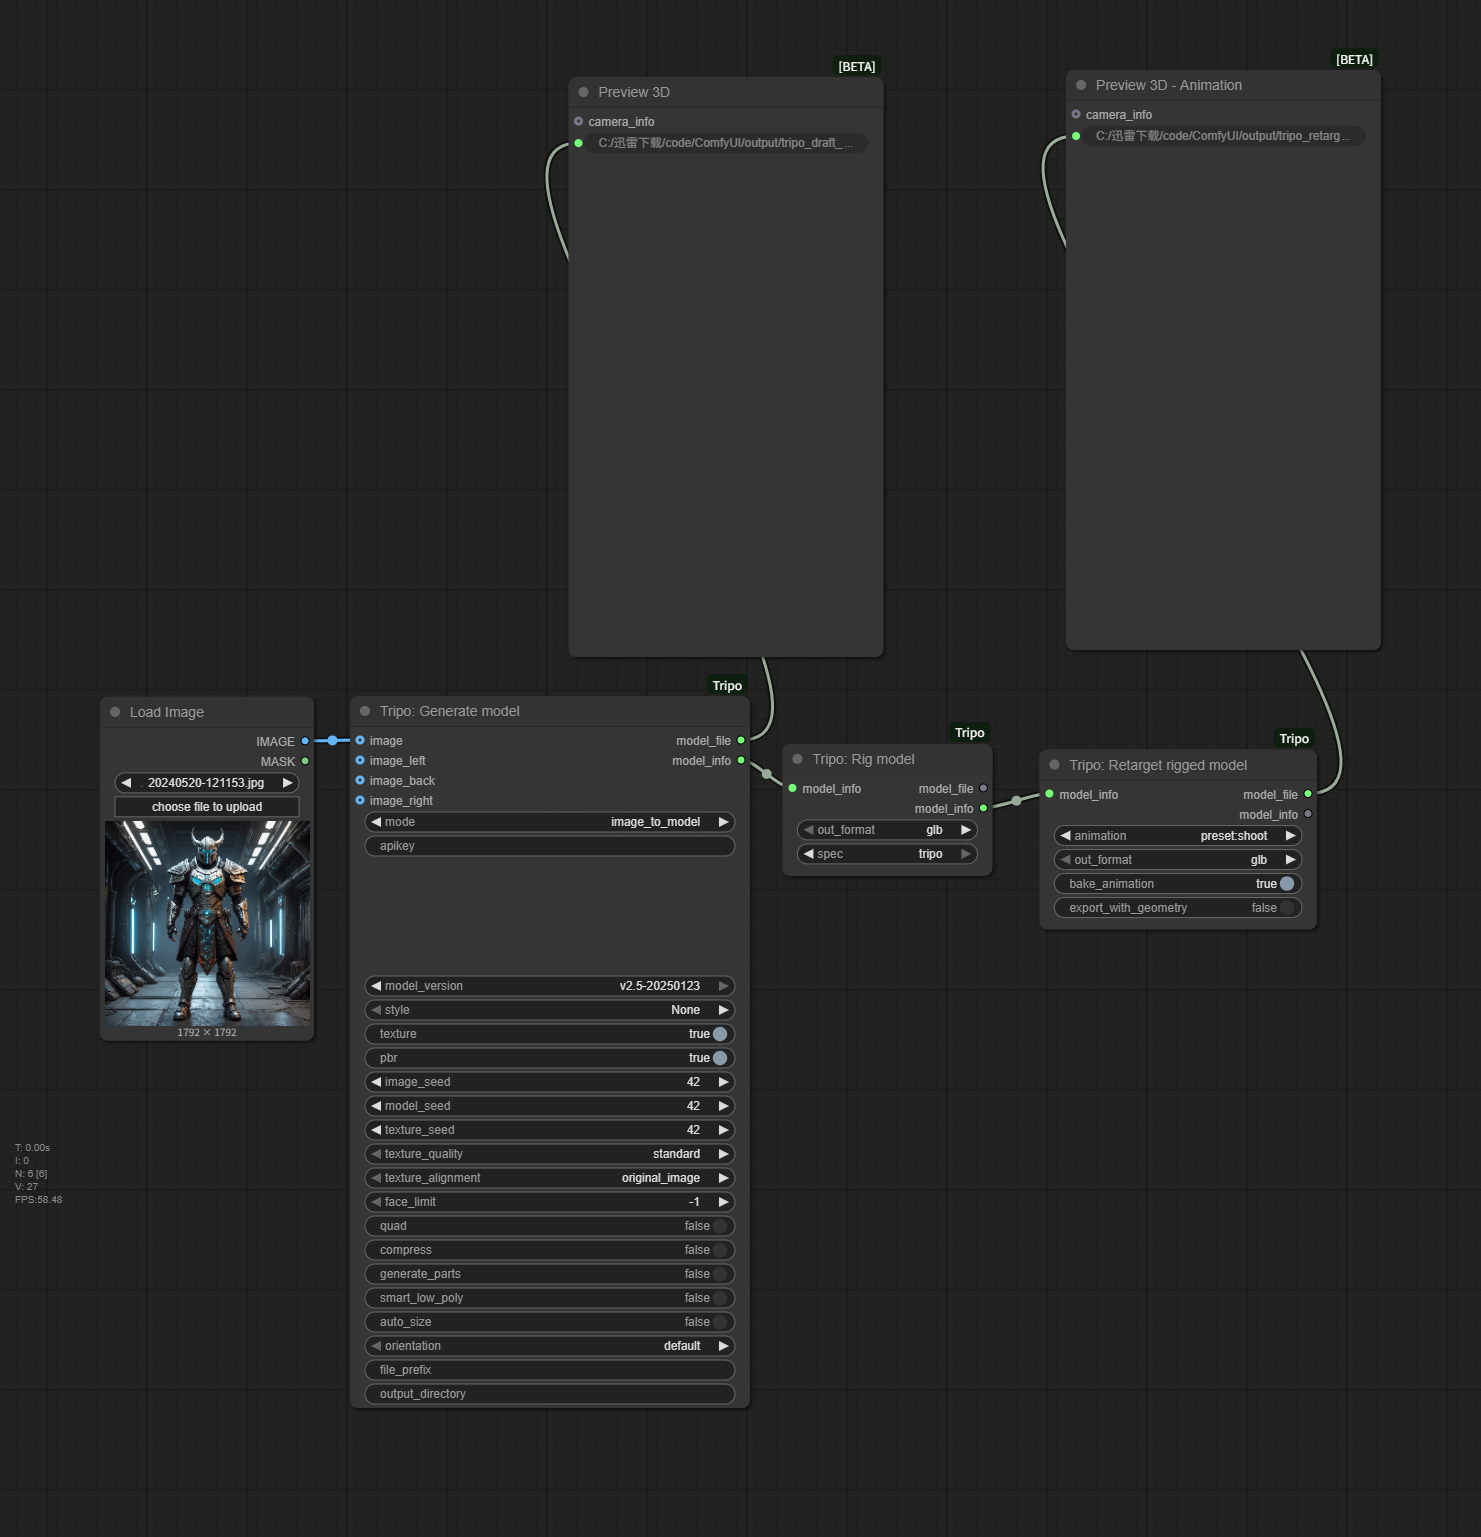
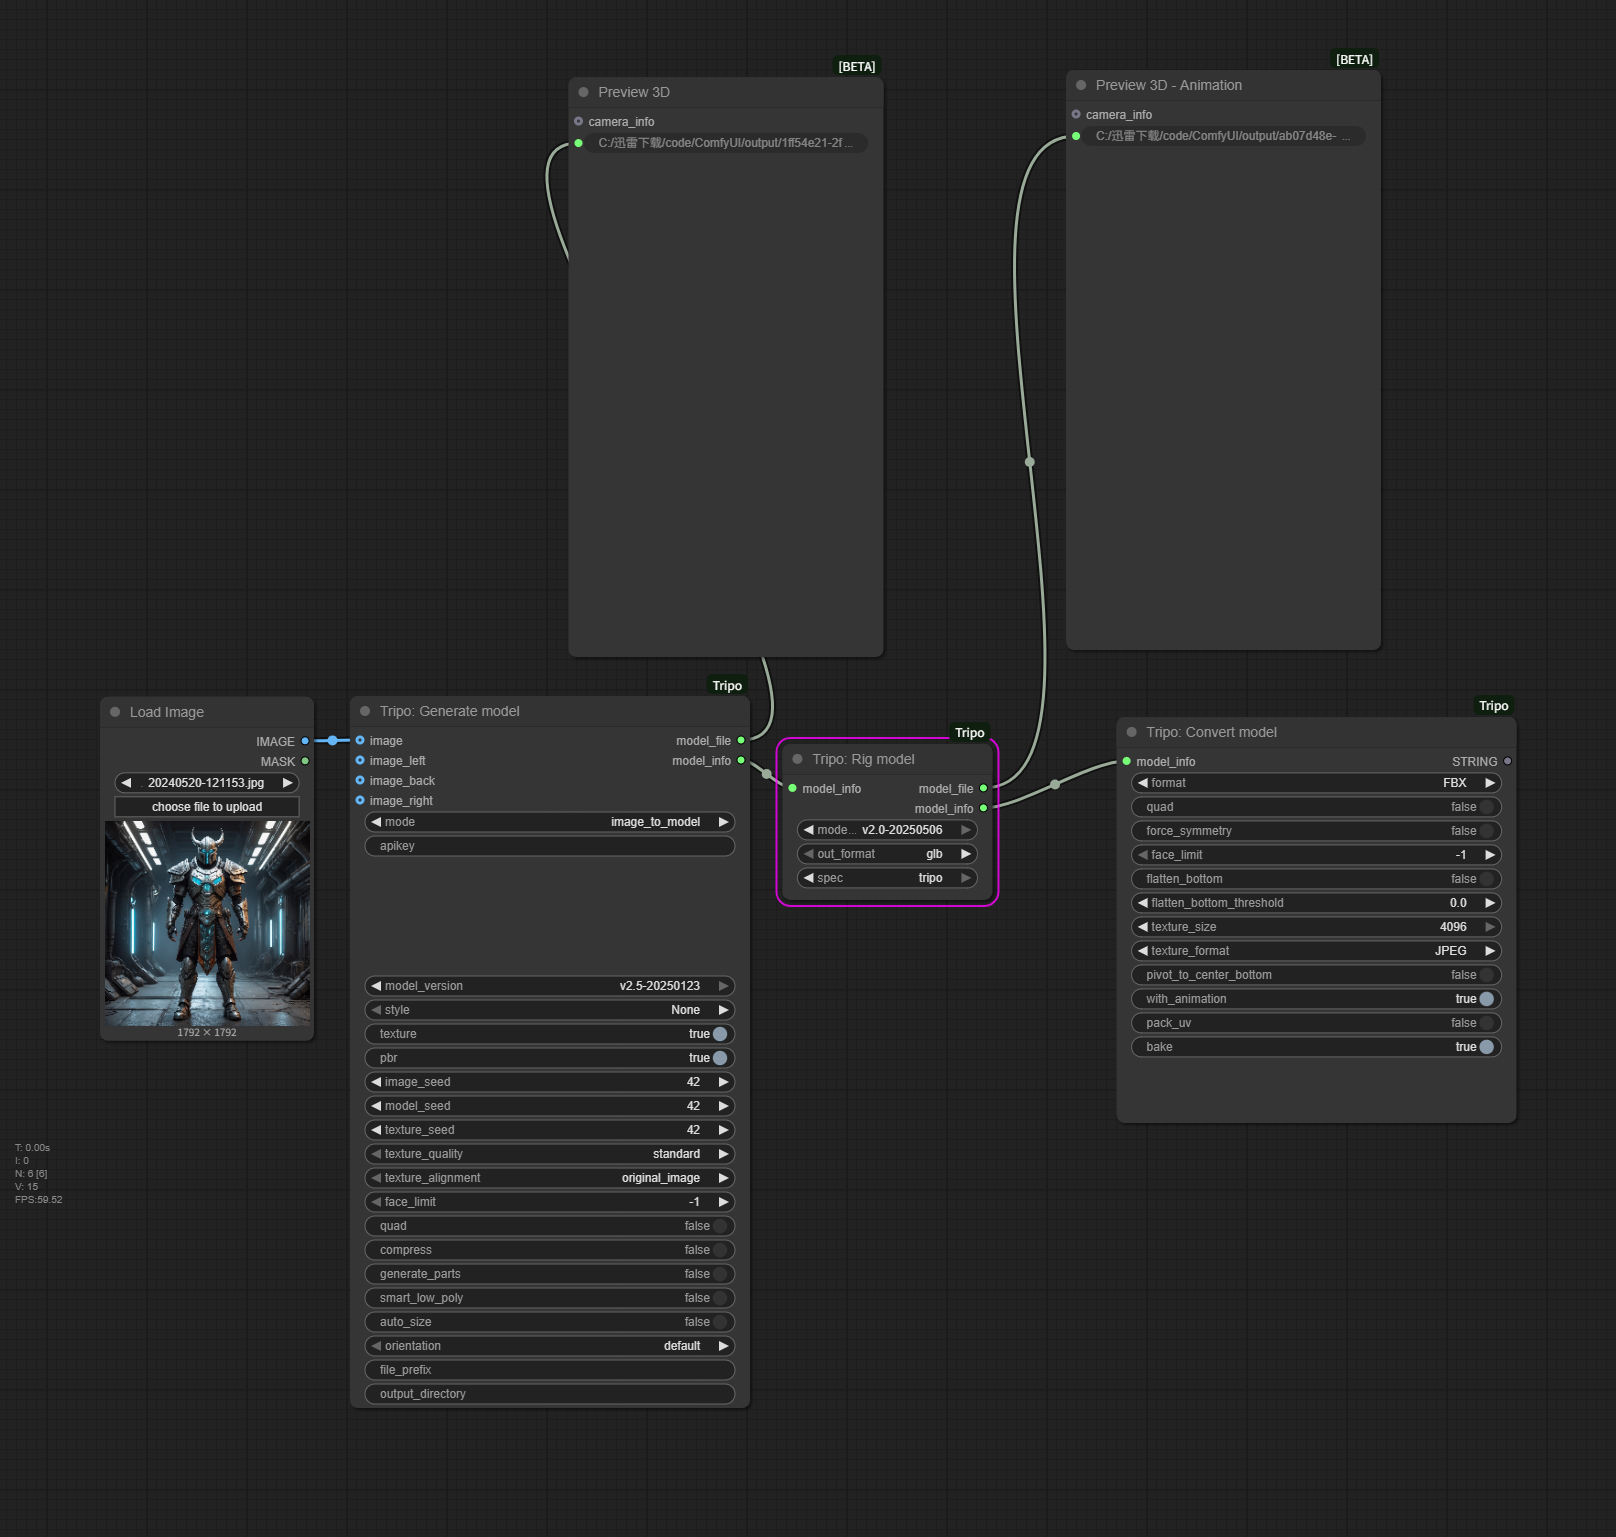
add model_version for rigmodel

diff --git a/__init__.py b/__init__.py
@@ -361,6 +361,7 @@ class TripoAnimateRigNode:
         return {
             "required": {
                 "model_info": ("MODEL_INFO",),
+                "model_version": (["v1.0-20240301", "v2.0-20250506"], {"default": "v2.0-20250506"}),
                 "out_format": (["glb", "fbx"], {"default": "glb"}),
                 "spec": (["mixamo", "tripo"], {"default": "tripo"}),
             }
@@ -371,7 +372,7 @@ class TripoAnimateRigNode:
     FUNCTION = "generate_mesh"
     CATEGORY = "TripoAPI"
 
-    def generate_mesh(self, model_info, out_format, spec):
+    def generate_mesh(self, model_info, model_version, out_format, spec):
         client, key = GetTripoAPI(model_info["apikey"])
 
         async def process():
@@ -392,7 +393,8 @@ class TripoAnimateRigNode:
                     original_model_task_id=model_info["task_id"],
                     out_format=out_format,
                     rig_type=rig_type,
-                    spec=spec
+                    spec=spec,
+                    model_version=model_version
                 )
                 task = await client.wait_for_task(task_id, verbose=True)
                 if task.status == "success":
